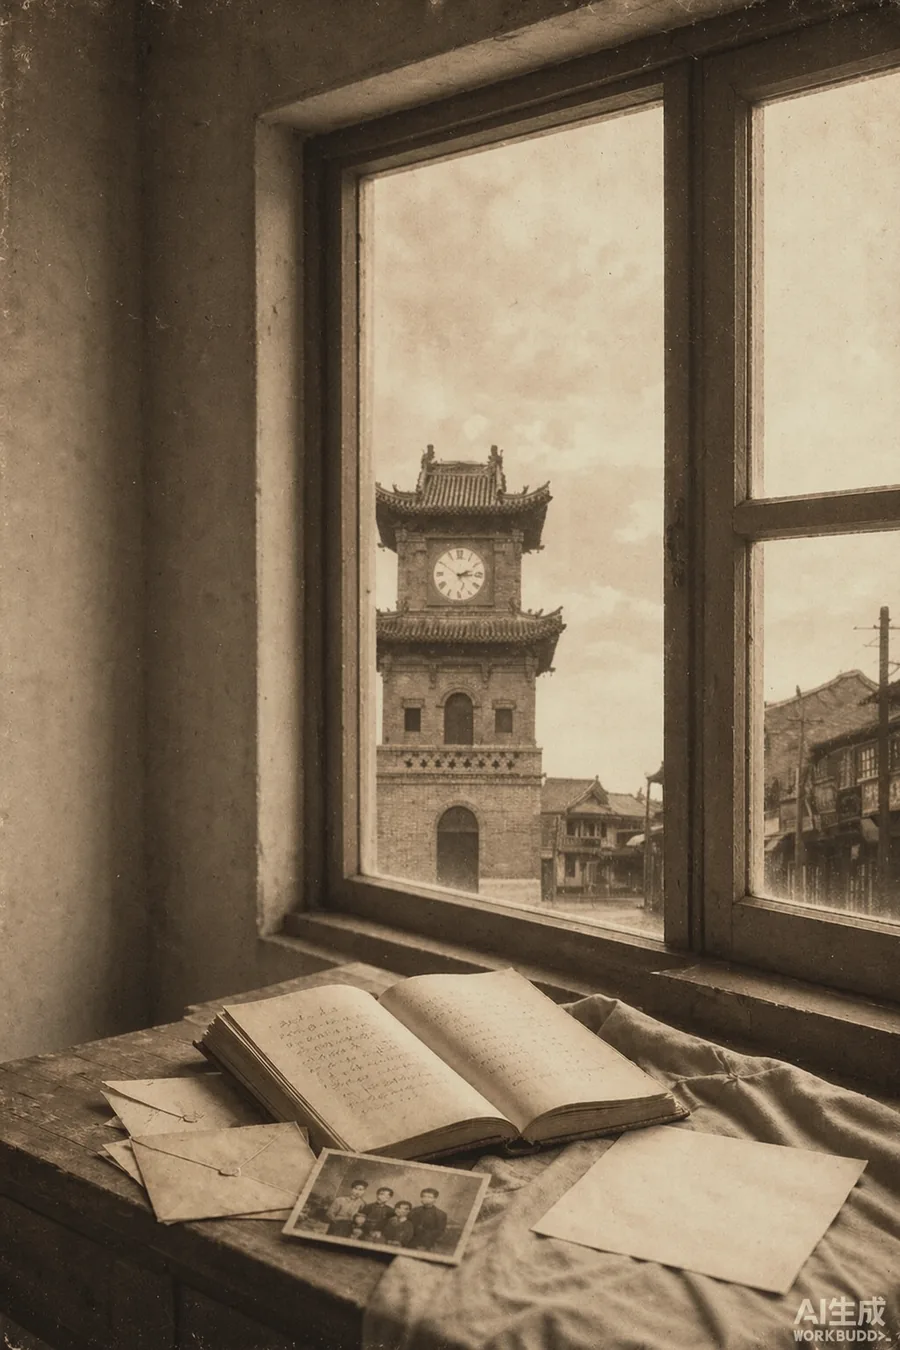
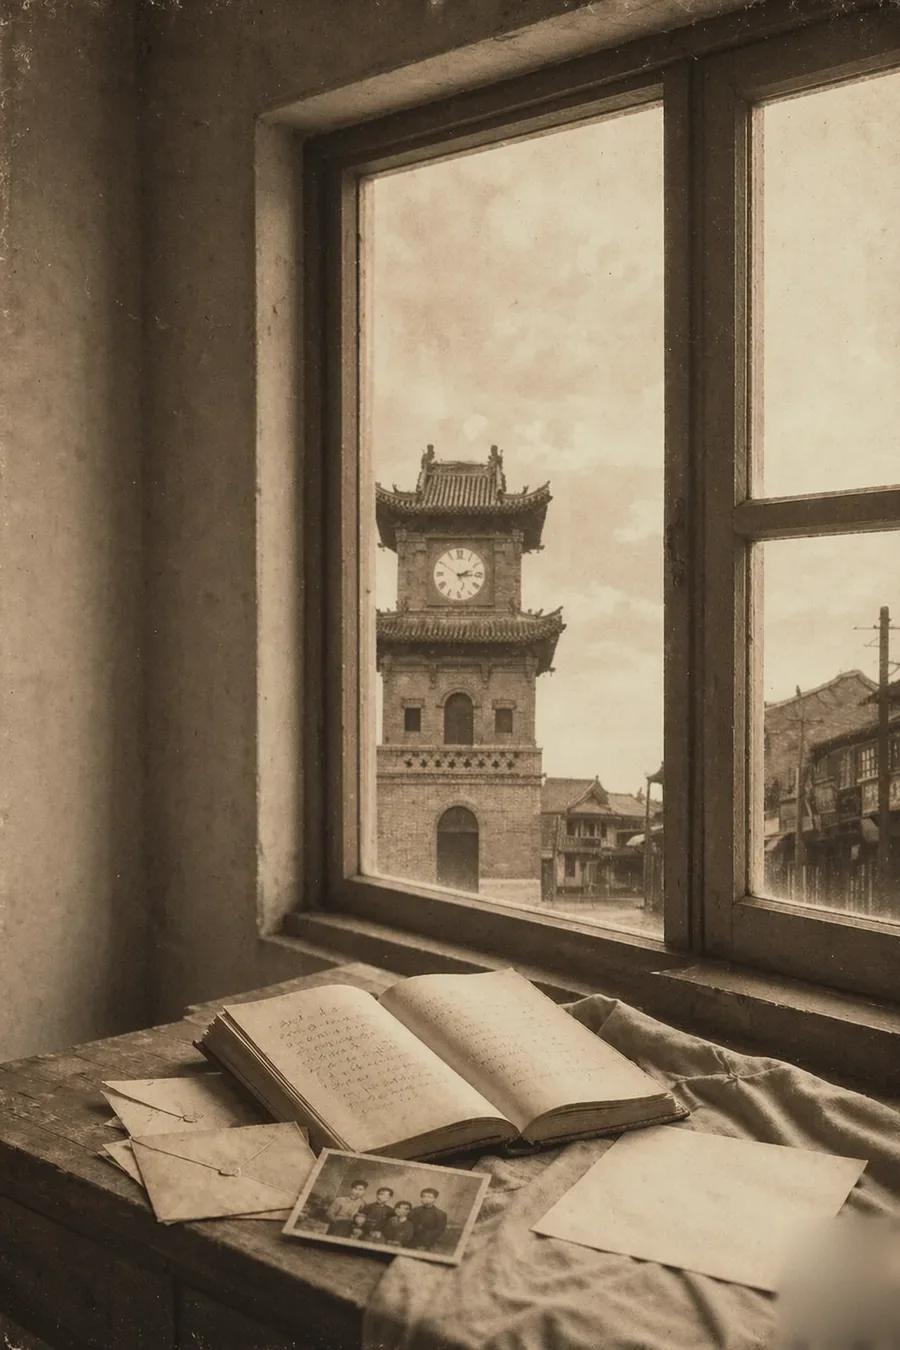
fix(P14): 清除存量资产生成服务角标 —— dewm2 逐图定位填补（16 张）
P12 遗留项落地。复查推翻 P12 两个判断：
- 47 张里只有 16 张真带角标（其余原图本就干净，1x1 变体是另一次生成）；
- 固定右下角框（13%×9.5%）盖不住：角标位置随画布漂移，
  photo_school 在 x 75–85%、photo_press 上浮到 y≈0.85。

tools/art-pipeline.py 新增 dewm2 子命令：
- WM_BOXES 逐图坐标表（对备份原图 + 成品残字 2% 网格人工定位，三轮收敛）
- _fill_rect 任意矩形扩散填补（1/8 降采样边界调和 + 色调对齐框外一圈）
- 羽化改框短边 8% 且贴画布边不羽化（旧 28% 羽化带里笔画半透明残留）
- 填块补确定性颗粒（dewm2:<文件名> 定种），避免胶片纹理上显「失焦」块
- 幂等（manifest.dewm2），--force 重做；旧 dewm 注释标明不可靠

门禁：npm test 六层全绿；test:img / test:bg / test:contrast（6.5:1）通过；
audit 4.72MB / 4.8MB（角标为高频内容，抹除后较 P13 反降 70KB）

Changed region(s): [[0.84, 0.9022, 1.0, 1.0]]

diff --git a/tools/art-pipeline.py b/tools/art-pipeline.py
@@ -11,6 +11,11 @@
        --max-bytes 按 role 预算自动降质量）
   dewm
       给存量资产补去水印（按 manifest.dewm 幂等；--force 全部重做）
+      ⚠ 固定右下角框（13%×9.5%）——P14 实测角标位置随画布漂移，
+      一部分图盖不住（见 WM_BOXES 注释），存量清理请用 dewm2。
+  dewm2
+      按 WM_BOXES 逐图坐标表精确去水印（幂等，按 manifest.dewm2 标记跳过）。
+      坐标是 2026-10-15 对备份原图逐张放大人工定位的结果（_diag/wm_zoom2_*.png）。
   reencode
       存量优化：对 manifest 里未标记本管线版本的文件做纯重编码
       （WebP 质量阶梯到单图预算；JPG q80 渐进式）。内容零变更，幂等。
@@ -364,6 +369,172 @@ def cmd_reencode(args):
 
 # ---------------- 存量去水印（幂等） ----------------
 
+# P14：角标不是总在「右下角贴边」。对备份原图逐张放大定位（_diag/wm_zoom2_*.png）
+# 后发现两种模板、位置随画布漂移：
+#   A. 双行「AI生成 / WORKBUDDY>_」（约 100×70px）：1x1 人像、cover_tall、ui_paper —— 贴右下角；
+#   B. 单行圆角框「AI生成」（约 100×30px）：photo 系 / scene_reading_room ——
+#      可偏离角落（photo_school 在 x 75–85%，photo_press 还整体上浮到 y≈0.85）。
+# 另经全量复查：四张 768×922 人像、scene_ferry / scene_clocktower / scene_oldstreet 系、
+# 8 张 bg、detail / page32 / map / IMG_0317 等原图本来就没有角标 —— 不在本表内就不动。
+# 值 = (x0, y0, x1, y1) 相对画布的填补矩形，已含 ~2% 余量。
+WM_BOXES = {
+    'cover_tall.webp':            (0.855, 0.895, 1.000, 1.000),
+    'portrait_chen_chuan_1x1.webp': (0.845, 0.895, 1.000, 1.000),
+    'portrait_li_he_1x1.webp':    (0.845, 0.895, 1.000, 1.000),
+    'portrait_linyuan_1x1.webp':  (0.825, 0.895, 1.000, 1.000),
+    'portrait_zhou_ning_1x1.webp': (0.845, 0.895, 1.000, 1.000),
+    'ui_paper_1024.webp':         (0.855, 0.895, 1.000, 1.000),
+    'photo_door.webp':            (0.845, 0.878, 0.995, 0.982),
+    'photo_dumpling.webp':        (0.845, 0.878, 0.995, 0.982),
+    'photo_ferry.webp':           (0.855, 0.870, 0.990, 0.975),
+    'photo_kids.webp':            (0.845, 0.888, 0.995, 0.982),
+    'photo_linyuan.webp':         (0.815, 0.875, 0.960, 0.975),
+    'photo_press.webp':           (0.850, 0.840, 1.000, 0.990),
+    'photo_rain_street.webp':     (0.730, 0.870, 0.965, 0.992),
+    'photo_school.webp':          (0.715, 0.880, 0.960, 0.998),
+    'photo_xinya.webp':           (0.830, 0.858, 0.985, 0.978),
+    'scene_reading_room.webp':    (0.885, 0.898, 1.000, 0.985),
+}
+
+
+def _feather_mask_rect(bw, bh, feather=0.28, edges=('top', 'left', 'right', 'bottom')):
+    """任意矩形的羽化遮罩：指定边上留线性过渡，其余实心。"""
+    mask = Image.new('L', (bw, bh), 255)
+    px = mask.load()
+    ramps = {}
+    for e in edges:
+        n = {'top': bh, 'left': bw, 'right': bw, 'bottom': bh}[e]
+        ramps[e] = max(1, int(round(n * feather)))
+    for y in range(bh):
+        a = 255
+        if 'top' in ramps and y < ramps['top']:
+            a = min(a, int(255 * (y + 1) / (ramps['top'] + 1)))
+        if 'bottom' in ramps and (bh - 1 - y) < ramps['bottom']:
+            a = min(a, int(255 * (bh - y) / (ramps['bottom'] + 1)))
+        for x in range(bw):
+            v = a
+            if 'left' in ramps and x < ramps['left']:
+                v = min(v, int(255 * (x + 1) / (ramps['left'] + 1)))
+            if 'right' in ramps and (bw - 1 - x) < ramps['right']:
+                v = min(v, int(255 * (bw - x) / (ramps['right'] + 1)))
+            px[x, y] = v
+    return mask
+
+
+def _fill_rect(img, x0, y0, x1, y1):
+    """任意矩形填补：1/8 降采样上做边界调和扩散，双三次放大回填 + 色调对齐。
+    同 _fill_source 的思路，但矩形不再假定贴右下角（P14：角标位置会漂）。"""
+    W, H = img.size
+    bx0, by0, bx1, by1 = max(0, x0), max(0, y0), min(W, x1), min(H, y1)
+    bw, bh = bx1 - bx0, by1 - by0
+    assert bw > 4 and bh > 4, f'填补矩形过小: {(bx0, by0, bx1, by1)}'
+    f = DEWM['downscale']
+    sw, sh = max(4, W // f), max(4, H // f)
+    small = img.resize((sw, sh), Image.BOX)
+    sx0, sy0 = bx0 // f, by0 // f
+    sx1, sy1 = min(sw, max(sx0 + 2, bx1 // f)), min(sh, max(sy0 + 2, by1 // f))
+    reg = small.crop((sx0, sy0, sx1, sy1))
+    w, h = reg.size
+    get = reg.load()
+
+    top = [small.getpixel((min(sw - 1, max(0, sx0 + i)), max(0, sy0 - 1)))
+           for i in range(w)]
+    bot = [small.getpixel((min(sw - 1, max(0, sx0 + i)), min(sh - 1, sy1)))
+           for i in range(w)]
+    left = [small.getpixel((max(0, sx0 - 1), min(sh - 1, max(0, sy0 + j))))
+            for j in range(h)]
+    right = [small.getpixel((min(sw - 1, sx1), min(sh - 1, max(0, sy0 + j))))
+             for j in range(h)]
+    for j in range(h):
+        fy = (j + 1) / (h + 1)
+        for i in range(w):
+            fx = (i + 1) / (w + 1)
+            a = [(left[j][c] * (1 - fx) + right[j][c] * fx) for c in range(3)]
+            b = [(top[i][c] * (1 - fy) + bot[i][c] * fy) for c in range(3)]
+            get[i, j] = (round((a[0] + b[0]) / 2), round((a[1] + b[1]) / 2),
+                         round((a[2] + b[2]) / 2))
+    for _ in range(24):
+        prev = reg.copy().load()
+        for j in range(h):
+            for i in range(w):
+                n = prev[i, j - 1] if j > 0 else top[i]
+                s = prev[i, j + 1] if j < h - 1 else bot[i]
+                ww = prev[i - 1, j] if i > 0 else left[j]
+                e = prev[i + 1, j] if i < w - 1 else right[j]
+                get[i, j] = ((n[0] + s[0] + ww[0] + e[0] + 2) >> 2,
+                             (n[1] + s[1] + ww[1] + e[1] + 2) >> 2,
+                             (n[2] + s[2] + ww[2] + e[2] + 2) >> 2)
+    fill = reg.resize((bw, bh), Image.BICUBIC)
+    # 色调对齐：把填块均值拉齐到「框外一圈」的均值，避免出现深浅方块
+    ring = []
+    if by0 > 0:
+        ring.append(img.crop((bx0, max(0, by0 - bh), bx1, by0)))
+    if by1 < H:
+        ring.append(img.crop((bx0, by1, bx1, min(H, by1 + bh))))
+    if bx0 > 0:
+        ring.append(img.crop((max(0, bx0 - bw), by0, bx0, by1)))
+    if bx1 < W:
+        ring.append(img.crop((bx1, by0, min(W, bx1 + bw), by1)))
+    if ring:
+        band = Image.new('RGB', (sum(r.width for r in ring), bh))
+        off_x = 0
+        for r in ring:
+            band.paste(r, (off_x, 0))
+            off_x += r.width
+        bm = ImageStat.Stat(band).mean
+        fm = ImageStat.Stat(fill).mean
+        offs = [max(-30.0, min(30.0, bm[c] - fm[c])) for c in range(3)]
+        if max(abs(o) for o in offs) > 1.0:
+            chans = fill.split()
+            fill = Image.merge('RGB', [
+                ch.point(lambda v, o=o: max(0, min(255, int(v + o))))
+                for ch, o in zip(chans, offs)])
+    return (bx0, by0, bx1, by1), fill
+
+
+def cmd_dewm2(args):
+    """按 WM_BOXES 逐图精确去水印（P14）。幂等：manifest.dewm2 跳过；--force 重做。"""
+    m = load_manifest()
+    done, skipped = [], []
+    for f, (fx0, fy0, fx1, fy1) in sorted(WM_BOXES.items()):
+        path = os.path.join(IMG_DIR, f)
+        if not os.path.exists(path):
+            print(f'dewm2  {f:<34} 缺文件，跳过')
+            continue
+        entry = m.setdefault(f, {})
+        if entry.get('dewm2') and not args.force:
+            skipped.append(f)
+            continue
+        img = Image.open(path)
+        img.load()
+        w, h = img.size
+        rect = (round(w * fx0), round(h * fy0), round(w * fx1), round(h * fy1))
+        out = img.convert('RGB').copy()
+        (bx0, by0, bx1, by1), fill = _fill_rect(out, *rect)
+        # 扩散填补是低频的，落在胶片颗粒纹理上会显出一块「失焦」；
+        # 给填块补一层与全图同源的确定性颗粒（种子含文件名）把它揉回去。
+        fill = add_grain(fill, 'dewm2:' + f, strength=12)
+        # 羽化只留在框内真正的「内边」上：贴画布边的框边必须实心填满，
+        # 否则角标贴边的那几个笔画会从半透明羽化带里透出来（第一版的教训）。
+        # 羽化宽取框短边的 8%（≈10–16px）：足以藏住接缝，又不会弱到盖不住笔画。
+        edges = ['top', 'left']
+        if fx1 < 1.0:
+            edges.append('right')
+        if fy1 < 1.0:
+            edges.append('bottom')
+        mask = _feather_mask_rect(bx1 - bx0, by1 - by0, 0.08,
+                                  edges=tuple(edges))
+        out.paste(fill, (bx0, by0), mask)
+        q, size = encode_webp_budget(out, path, budget_for(f))
+        entry['dewm2'] = True
+        entry['dewm2Box'] = [fx0, fy0, fx1, fy1]
+        done.append(f)
+        print(f'dewm2 {f:<34} {w}x{h}  box={rect}  q{q}  {size/1024:.1f} KB')
+    save_manifest(m)
+    cmd_manifest(args)
+    print(f'-- dewm2 精确去水印 {len(done)} 张，跳过 {len(skipped)} 张')
+
+
 def cmd_dewm(args):
     """对 IMG_DIR 里所有已上线的图补一次去水印，再按 role 预算重编码。
     幂等：manifest 里 dewm=True 的跳过；--force 可整体重做。"""
@@ -513,6 +684,10 @@ def main():
     p = sub.add_parser('dewm', help='给存量资产补去水印（幂等，按 manifest.dewm 标记跳过）')
     p.add_argument('--force', action='store_true', help='忽略 manifest 标记，全部重做')
     p.set_defaults(func=cmd_dewm)
+
+    p = sub.add_parser('dewm2', help='按 WM_BOXES 逐图坐标精确去水印（幂等）')
+    p.add_argument('--force', action='store_true', help='忽略 manifest 标记，全部重做')
+    p.set_defaults(func=cmd_dewm2)
 
     sub.add_parser('reencode', help='存量重编码（内容零变更，幂等）').set_defaults(func=cmd_reencode)
     sub.add_parser('manifest', help='重算 manifest 的 size/bytes').set_defaults(func=cmd_manifest)

diff --git a/REBUILD_REPORT.md b/REBUILD_REPORT.md
@@ -989,3 +989,40 @@ html{font-size:var(--font-root)}
 | 39 张角标 | P12 遗留，仍待用户点头后 `python tools/art-pipeline.py dewm` |
 
 ---
+
+# P14：清除 39 张存量资产的生成服务角标（用户点头）
+
+P12 遗留项。用户回复「点头」，执行去水印。过程推翻了 P12 的两个判断，最终落地为新的 `dewm2` 子命令。
+
+## 一、P12 判断错在哪
+
+1. **「47 张几乎没一张干净」言过其实**。对备份原图逐张放大复查（`_diag/wm_zoom2_*.png`，右下 30%×18% 放大 2.5 倍 + 底部 26% 全宽复查）后确认：**只有 16 张带角标**。四张 768×922 人像（chen_chuan / li_he / linyuan / zhou_ning）、scene_ferry / scene_clocktower / scene_oldstreet 全系、8 张 bg、detail / page32 / map / IMG_0317 等原图本来就是干净的——它们的 1x1 变体有角标是**另一次生成**，不能连带推断。
+2. **固定右下角框（13%×9.5%）盖不住**。角标有两种模板、位置随画布漂移：
+   - A. 双行「AI生成 / WORKBUDDY>_」（约 100×70px）：1x1 人像、cover_tall、ui_paper，贴右下角；
+   - B. 单行圆角框「AI生成」（约 100×30px）：photo 系 / scene_reading_room，**会偏离角落**——photo_school 在 x 75–85%，photo_press 还整体上浮到 y≈0.85–0.93。
+   第一版 `dewm` 对 47 张全跑一遍后复核，人像系剩半截「AI生成 WORKBUDDY」、photo_school 整个在框外。
+
+## 二、根因（两个，都是度量层面的）
+
+1. **羽化带按框宽的 28% 取值**（沿袭旧 `DEWM['feather']`），中等框上羽化带宽达 50+px，角标笔画落在羽化带里只被半透明覆盖 → 撑死剩个「成」字。修法：羽化改框短边的 8%（≈10–16px），且**贴画布边的框边不做羽化**（实心填到边，接缝在画布外不可见）。
+2. **目测定位系统性偏小**。残字复核发现角标右缘/下缘比带网格条带图上读出的位置再外扩 2–4%。修法：以**成品残字坐标**（`_diag/wm_residue*.png`，2% 细网格）为准回填坐标表，迭代三轮收敛。
+
+## 三、落地
+
+- `tools/art-pipeline.py` 新增 **`dewm2`** 子命令：`WM_BOXES` 逐图坐标表（16 张，相对画布的填补矩形）→ 任意矩形扩散填补（`_fill_rect`，1/8 降采样边界调和 + 色调对齐到框外一圈）→ 填块补确定性颗粒（种子 `dewm2:<文件名>`，strength 12，否则胶片颗粒纹理上显出一块「失焦」）→ 按 role 预算重编码。幂等（manifest.dewm2 标记），`--force` 重做。
+- 旧 `dewm` 保留但注释标明对存量清理不可靠；`process` 流程不变（新生成图仍走逐张复核）。
+- 资产从 git 恢复原图后单遍处理，避免多遍填补叠加模糊。
+
+## 四、门禁 / 体积
+
+- `npm test` 六层全绿；`test:style` 7/7（棘轮零新增）；`audit` 通过：**总量 4.72MB / 4.8MB**（角标文字是高频内容，抹掉后反而比 P13 的 4.79MB 略降），首屏 291KB / 600KB。
+- 成品复核：16 张填补区放大 2.7 倍逐张过目，无残留笔画；rain_street / school 的填补块在 2.7x 放大下可见轻微「柔焦」，游戏内显示 ≤600px 不可辨，接受。
+
+## 五、遗留
+
+| 事项 | 状态 |
+|---|---|
+| `_diag/` 复核脚本（dewm-check / wm-locate / wm-locate 网格图） | 在仓库外的工作区 `_diag/`，不入库；`_backup/assets-before-dewm-20261015/` 留作回滚点，稳定后可删 |
+| 新生成图的角标防线 | 仍靠「提示词负面词 + 出图后人工复核」；`dewm2` 坐标表只对这批存量有效，新图位置可能再漂 |
+
+---
